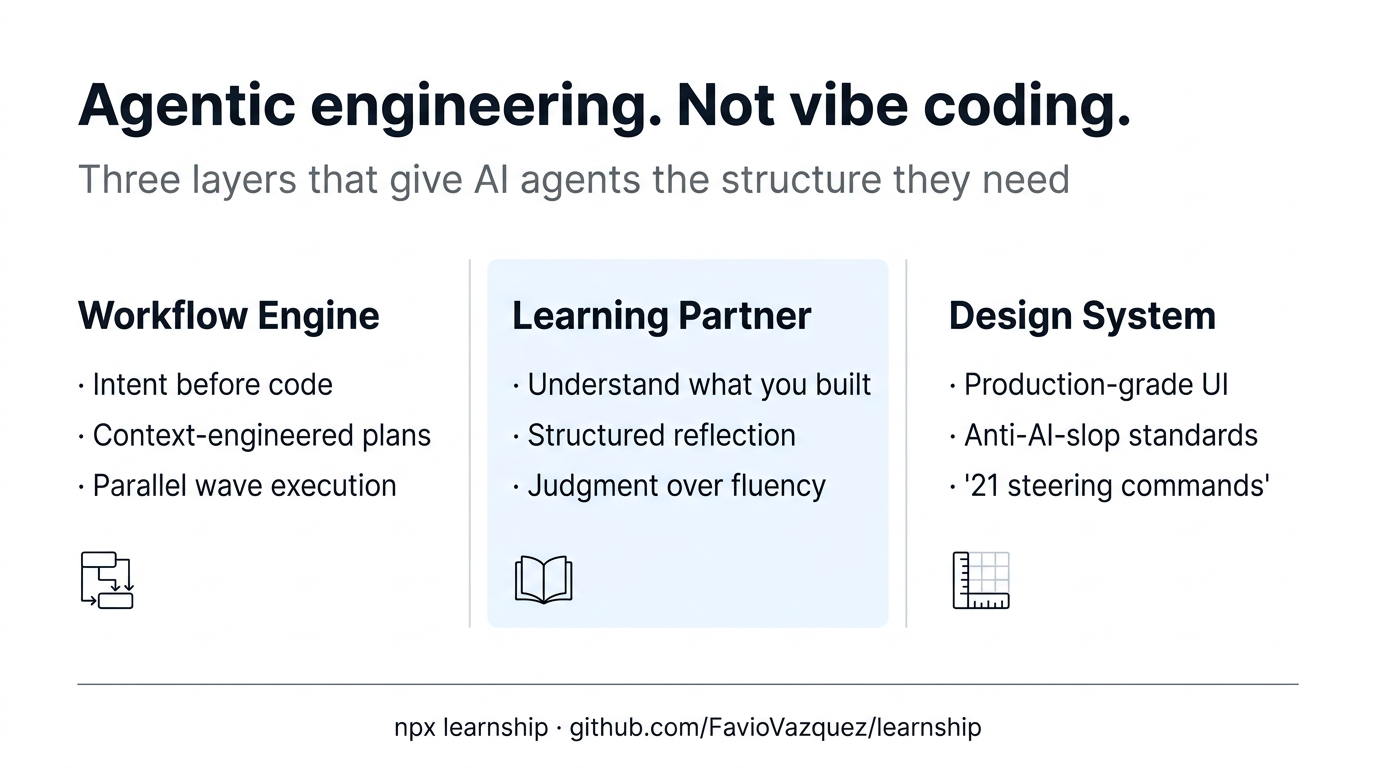
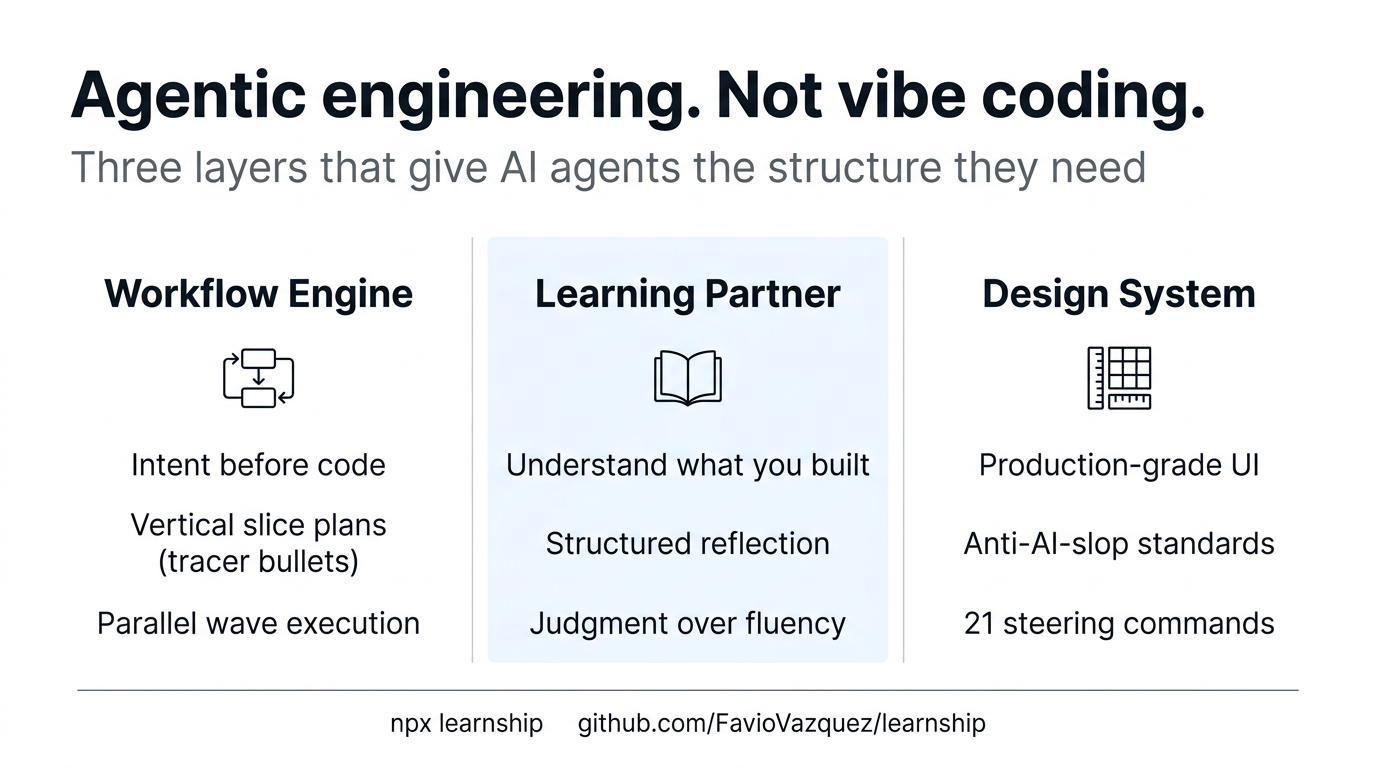
chore: replace 'grill-me' with 'extended questioning', fix quick-start-flow duplicate nodes, regenerate images

diff --git a/CHANGELOG.md b/CHANGELOG.md
@@ -13,8 +13,8 @@ This project uses [semantic versioning](https://semver.org/): `MAJOR.MINOR.PATCH
 
 ### Added
 
-- **Deep questioning mode for `discuss-phase`** — `--deep` flag (or `workflow.discuss_mode: "deep"` in config) activates grill-me style questioning: walks every decision branch until shared understanding is reached, provides a recommended answer with each question, and only advances when no unresolved branches remain. `CONTEXT.md` now records `Mode: standard | deep`.
-- **Deep questioning mode for `new-project`** — Step 3 now offers a "Questioning Depth" choice (Standard vs. Deep) or respects `--deep` flag. Deep mode continues with grill-me loop after the 4 standard exchanges until shared understanding is confirmed.
+- **Deep questioning mode for `discuss-phase`** — `--deep` flag (or `workflow.discuss_mode: "deep"` in config) activates extended deep questioning: walks every decision branch until shared understanding is reached, provides a recommended answer with each question, and only advances when no unresolved branches remain. `CONTEXT.md` now records `Mode: standard | deep`.
+- **Deep questioning mode for `new-project`** — Step 3 now offers a "Questioning Depth" choice (Standard vs. Deep) or respects `--deep` flag. Deep mode continues with extended questioning after the 4 standard exchanges until shared understanding is confirmed.
 - **Vertical slice planning (tracer bullets) in `plan-phase`** — Each PLAN.md is now required to be a tracer bullet: a thin vertical slice through all integration layers (data → logic → API → UI → test) for one user-facing behavior. Horizontal-only plans (all-schema, all-API, all-UI) are flagged during plan-check. Single-layer phases (migrations, style passes) set `single_layer_justified: true` in frontmatter to suppress the check.
 - **Vertical slice check in `plan-checker` agent** — New Check #7: flags horizontal slices unless `single_layer_justified: true` is present. Both the Task() subagent and sequential `<persona_context>` paths enforce this.
 - **`single_layer_justified` frontmatter field** — Documented in `planner.md`, `plan-checker.md`, `plan-phase.md`, `templates/plan.md`, and `learnship/agents/` published copies.

diff --git a/README.md b/README.md
@@ -136,7 +136,7 @@ flowchart LR
 
 | Step | Command | What happens |
 |------|---------|-------------|
-| **1. Discuss** | `/discuss-phase N` | You and the agent align on implementation decisions before any code. Add `--deep` for grill-me style branch-walking (v2.3.4) |
+| **1. Discuss** | `/discuss-phase N` | You and the agent align on implementation decisions before any code. Add `--deep` for extended deep questioning that walks every branch (v2.3.4) |
 | **2. Plan** | `/plan-phase N` | Agent researches the domain, creates vertical slice plans (tracer bullets), verifies them — including horizontal slice detection (v2.3.4) |
 | **3. Execute** | `/execute-phase N` | Plans run in dependency order, one atomic commit per task |
 | **4. Verify** | `/verify-work N` | You do UAT; agent diagnoses any gaps and creates fix plans |
@@ -294,7 +294,7 @@ v2.1 adds 8 new workflows, 5 new references, 3 new templates, and 2 new agents:
 | **Session** | `/note` — zero-friction capture · `/session-report` — stakeholder summaries |
 | **Learning** | `/extract-learnings` — decisions, lessons, patterns, surprises · `/milestone-summary` — team onboarding |
 
-Enhanced: `/discuss-phase` (scope guardrails + domain probes + `--deep` grill-me mode v2.3.4), `/new-project` (`--deep` questioning depth v2.3.4), `/plan-phase` (vertical slice tracer bullets + horizontal slice detection v2.3.4), `/execute-phase` (`--wave` flag + context scaling), `/quick` (`--research --validate --full` composable flags), `/ideate` (`--explore` Socratic mode).
+Enhanced: `/discuss-phase` (scope guardrails + domain probes + `--deep` extended questioning v2.3.4), `/new-project` (`--deep` extended questioning v2.3.4), `/plan-phase` (vertical slice tracer bullets + horizontal slice detection v2.3.4), `/execute-phase` (`--wave` flag + context scaling), `/quick` (`--research --validate --full` composable flags), `/ideate` (`--explore` Socratic mode).
 
 **Optional per-phase:** `/secure-phase N` (STRIDE security), `/extract-learnings N` (meta-knowledge).
 **Recovery:** `/forensics` (post-mortem), `/undo` (safe revert).

diff --git a/docs/workflow-reference/core.md b/docs/workflow-reference/core.md
@@ -16,13 +16,13 @@ These 8 workflows form the backbone of every learnship project. They take you fr
 Initializes a new project with full spec-driven scaffolding.
 
 **What it does:**
-1. Structured questioning about what you're building, why, and for whom (standard: 4 exchanges; `--deep`: grill-me style until full shared understanding)
+1. Structured questioning about what you're building, why, and for whom (standard: 4 exchanges; `--deep`: extended questioning until full shared understanding)
 2. Domain research: stack recommendations, architecture patterns, pitfalls
 3. Writes `AGENTS.md`, `.planning/PROJECT.md`, `.planning/REQUIREMENTS.md`
 4. Proposes a phase-by-phase `ROADMAP.md` for your approval
 
 **Flags:**
-- `--deep` — activates grill-me questioning for Step 3: walks every open branch until shared understanding is reached, producing a richer `PROJECT.md`. (v2.3.4)
+- `--deep` — activates extended deep questioning for Step 3: walks every open branch until shared understanding is reached, producing a richer `PROJECT.md`. (v2.3.4)
 
 **When to use:** Start of any new project, greenfield or brownfield (after `/map-codebase`).
 
@@ -41,7 +41,7 @@ Captures implementation decisions for phase N before any planning begins.
 4. Writes `DISCUSSION-LOG.md` as an audit trail of all options considered (v2.1)
 
 **Flags:**
-- `--deep` — grill-me style questioning: walks every decision branch until shared understanding is reached, with a recommended answer per question. Produces a richer `CONTEXT.md`. (v2.3.4)
+- `--deep` — extended deep questioning: walks every decision branch until shared understanding is reached, with a recommended answer per question. Produces a richer `CONTEXT.md`. (v2.3.4)
 
 **Config:** Set `workflow.discuss_mode: "deep"` in `config.json` to make deep mode the default without passing the flag.
 

diff --git a/docs/core-concepts/phase-loop.md b/docs/core-concepts/phase-loop.md
@@ -47,7 +47,7 @@ Your answers get written to `.planning/phases/N-*/N-CONTEXT.md` with structured 
 
 v2.1 adds **scope guardrails** (prevents scope creep during discussion), **domain-aware probes** (smarter follow-ups for auth, API, database, etc.), and a **discussion log** as an audit trail.
 
-v2.3.4 adds **`--deep` mode**: pass `discuss-phase N --deep` or set `workflow.discuss_mode: "deep"` in config to activate grill-me style questioning that walks every decision branch until shared understanding is reached. Each question includes a recommended answer. Produces a richer `CONTEXT.md`.
+v2.3.4 adds **`--deep` mode**: pass `discuss-phase N --deep` or set `workflow.discuss_mode: "deep"` in config to activate extended deep questioning that walks every decision branch until shared understanding is reached. Each question includes a recommended answer. Produces a richer `CONTEXT.md`.
 
 !!! tip "Why this step matters"
     Skipping discuss and going straight to plan is the most common source of misaligned plans. 10 minutes of discussion prevents hours of rework.

diff --git a/docs/configuration.md b/docs/configuration.md
@@ -194,11 +194,11 @@ Controls the depth of questioning in `/discuss-phase` and `/new-project` Step 3.
 | Value | Behavior |
 |-------|----------|
 | `"discuss"` | Standard mode: 4 focused exchanges per area, then move on. Default. |
-| `"deep"` | Grill-me style: walks every decision branch until shared understanding is reached. Provides a recommended answer with each question. Produces a richer `CONTEXT.md`. |
+| `"deep"` | Extended deep questioning: walks every decision branch until shared understanding is reached. Provides a recommended answer with each question. Produces a richer `CONTEXT.md`. |
 
 Equivalent to passing `--deep` flag: `discuss-phase N --deep` or `new-project --deep`.
 
-**When to use `"deep"`:** Complex phases with many implementation choices, new domains, or when past phases showed the planner guessing at ambiguous decisions.
+**When to use `"deep"`:** Complex phases with many implementation choices, new domains, or when past phases revealed too many ambiguous decisions.
 
 ---
 

diff --git a/learnship/references/planning-config.md b/learnship/references/planning-config.md
@@ -210,7 +210,7 @@ New sections and fields added in v2.1.0 for security, parallelization control, g
 | Option | Default | Description |
 |--------|---------|-------------|
 | `workflow.security_enforcement` | `true` | Enable per-phase security verification via `/secure-phase` |
-| `workflow.discuss_mode` | `"discuss"` | Discussion depth for `discuss-phase` and `new-project` questioning. `"discuss"` = standard (4 focused exchanges). `"deep"` = grill-me style, walks every decision branch until shared understanding — equivalent to passing `--deep` flag |
+| `workflow.discuss_mode` | `"discuss"` | Discussion depth for `discuss-phase` and `new-project` questioning. `"discuss"` = standard (4 focused exchanges). `"deep"` = extended questioning, walks every decision branch until shared understanding — equivalent to passing `--deep` flag |
 | `workflow.tdd_mode` | `false` | Instruct planner to apply `type: tdd` to eligible tasks |
 
 ### Parallelization Section (replaces flat boolean)

diff --git a/.windsurf/workflows/discuss-phase.md b/.windsurf/workflows/discuss-phase.md
@@ -7,7 +7,7 @@ description: Capture implementation decisions for a phase before planning starts
 Extract implementation decisions that downstream planning needs. Analyze the phase to identify gray areas, let the user choose what to discuss, then deep-dive each selected area until satisfied.
 
 **Usage:** Run `discuss-phase [N]` before `plan-phase [N]`.
-**Usage:** Run `discuss-phase [N] --deep` for grill-me mode — relentless questioning that walks every decision branch until shared understanding is reached, with a recommended answer for each question.
+**Usage:** Run `discuss-phase [N] --deep` for extended deep questioning — walks every decision branch until shared understanding is reached, with a recommended answer for each question.
 
 **You are a thinking partner, not an interviewer.** The user is the visionary — you are the builder. Your job is to capture decisions that will guide research and planning, not to figure out implementation yourself.
 

diff --git a/learnship/workflows/discuss-phase.md b/learnship/workflows/discuss-phase.md
@@ -7,7 +7,7 @@ description: Capture implementation decisions for a phase before planning starts
 Extract implementation decisions that downstream planning needs. Analyze the phase to identify gray areas, let the user choose what to discuss, then deep-dive each selected area until satisfied.
 
 **Usage:** Run `discuss-phase [N]` before `plan-phase [N]`.
-**Usage:** Run `discuss-phase [N] --deep` for grill-me mode — relentless questioning that walks every decision branch until shared understanding is reached, with a recommended answer for each question.
+**Usage:** Run `discuss-phase [N] --deep` for extended deep questioning — walks every decision branch until shared understanding is reached, with a recommended answer for each question.
 
 **You are a thinking partner, not an interviewer.** The user is the visionary — you are the builder. Your job is to capture decisions that will guide research and planning, not to figure out implementation yourself.
 

diff --git a/.windsurf/workflows/new-project.md b/.windsurf/workflows/new-project.md
@@ -494,7 +494,7 @@ Verify internally: do you have `ANSWER_1`, `ANSWER_2`, `ANSWER_3`, and `ANSWER_4
 
 **If `QUESTIONING_MODE = deep`:**
 
-After Exchange 4, continue with the grill-me loop:
+After Exchange 4, continue with the extended deep questioning loop:
 - Identify the single biggest remaining unknown that would change the direction, scope, or architecture of PROJECT.md. Ask it. Provide your recommended answer with each question.
 - If an answer opens a new branch (a sub-decision), follow that branch before moving on.
 - If you can explore the codebase to resolve a question yourself, do so instead of asking.

diff --git a/learnship/workflows/new-project.md b/learnship/workflows/new-project.md
@@ -494,7 +494,7 @@ Verify internally: do you have `ANSWER_1`, `ANSWER_2`, `ANSWER_3`, and `ANSWER_4
 
 **If `QUESTIONING_MODE = deep`:**
 
-After Exchange 4, continue with the grill-me loop:
+After Exchange 4, continue with the extended deep questioning loop:
 - Identify the single biggest remaining unknown that would change the direction, scope, or architecture of PROJECT.md. Ask it. Provide your recommended answer with each question.
 - If an answer opens a new branch (a sub-decision), follow that branch before moving on.
 - If you can explore the codebase to resolve a question yourself, do so instead of asking.

diff --git a/.windsurf/workflows/settings.md b/.windsurf/workflows/settings.md
@@ -36,7 +36,7 @@ cp templates/config.json .planning/config.json 2>/dev/null || cat > .planning/co
     "review": true,
     "solutions_search": true,
     "security_enforcement": true,
-    "discuss_mode": "discuss",    // "discuss" (standard 4-exchange) or "deep" (grill-me style, walks every branch until shared understanding)
+    "discuss_mode": "discuss",    // "discuss" (standard 4-exchange) or "deep" (extended deep questioning, walks every branch until shared understanding)
     "tdd_mode": false
   },
   "parallelization": {

diff --git a/learnship/workflows/settings.md b/learnship/workflows/settings.md
@@ -36,7 +36,7 @@ cp templates/config.json .planning/config.json 2>/dev/null || cat > .planning/co
     "review": true,
     "solutions_search": true,
     "security_enforcement": true,
-    "discuss_mode": "discuss",    // "discuss" (standard 4-exchange) or "deep" (grill-me style, walks every branch until shared understanding)
+    "discuss_mode": "discuss",    // "discuss" (standard 4-exchange) or "deep" (extended questioning, walks every branch until shared understanding)
     "tdd_mode": false
   },
   "parallelization": {
